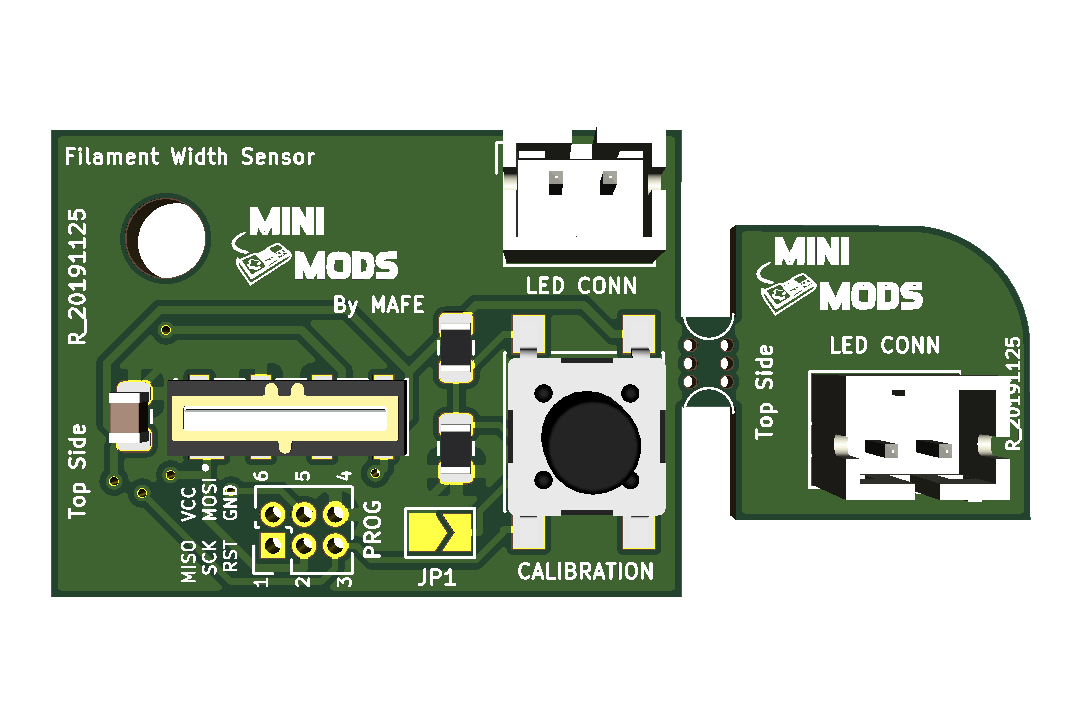
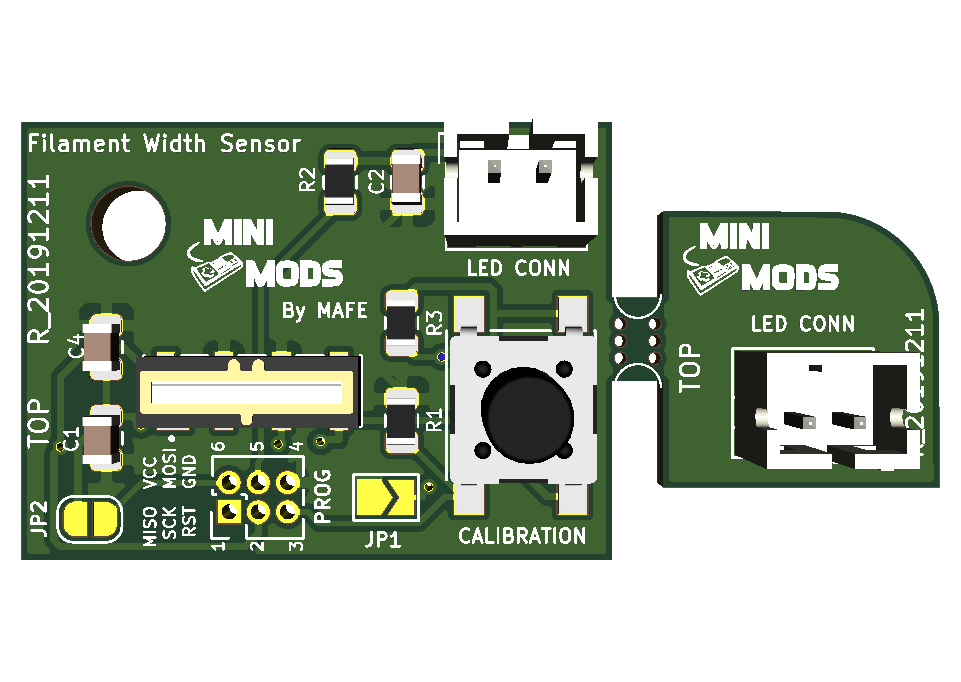
Updated Revision Number

Changed region(s): [[0.0, 0.154, 0.999, 0.8314], [0.4995, 0.6466, 0.5307, 0.6774]]

diff --git a/README.md b/README.md
@@ -65,7 +65,7 @@ Once done, flash the modified firmware to your printer.
 			
 Hardware Installation
 ---------------------
-The following images display the correcnt pin location for the installation for the Filament Width Sensor.
+The following images display the correct pin location for the installation for the Filament Width Sensor.
 
 * RAMPS 1.4 Pinout.
 ![ramps](pictures/ramps.png)
